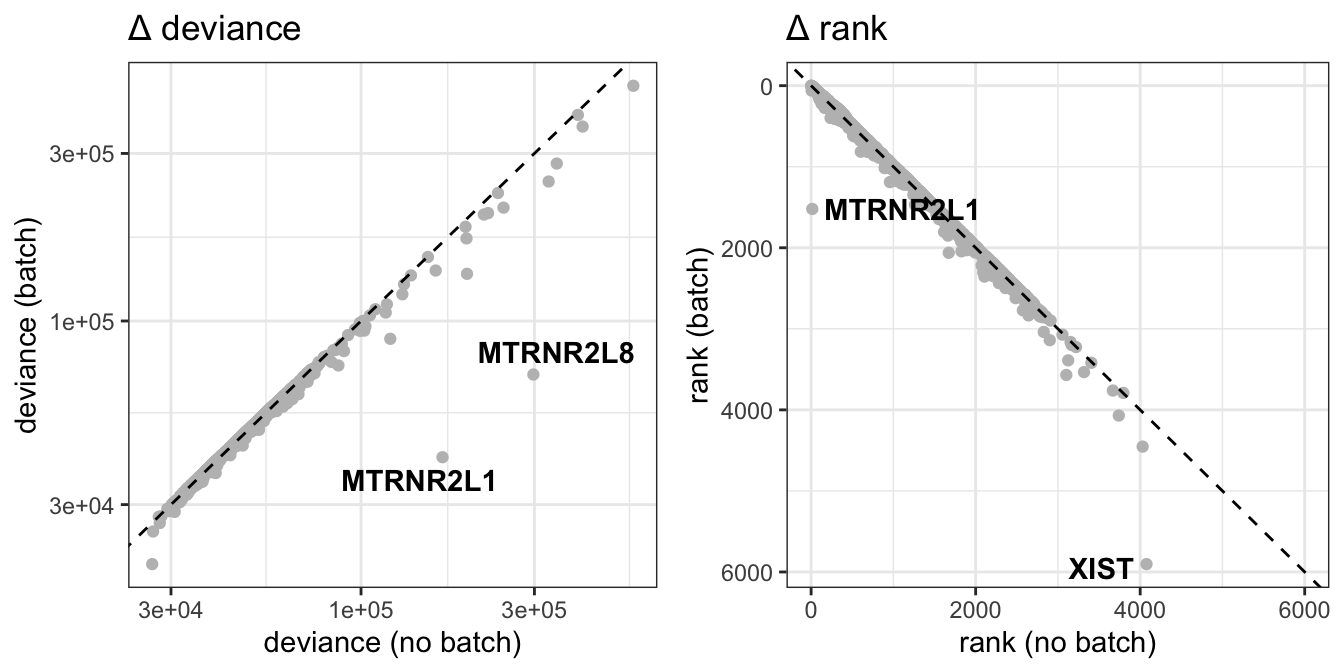
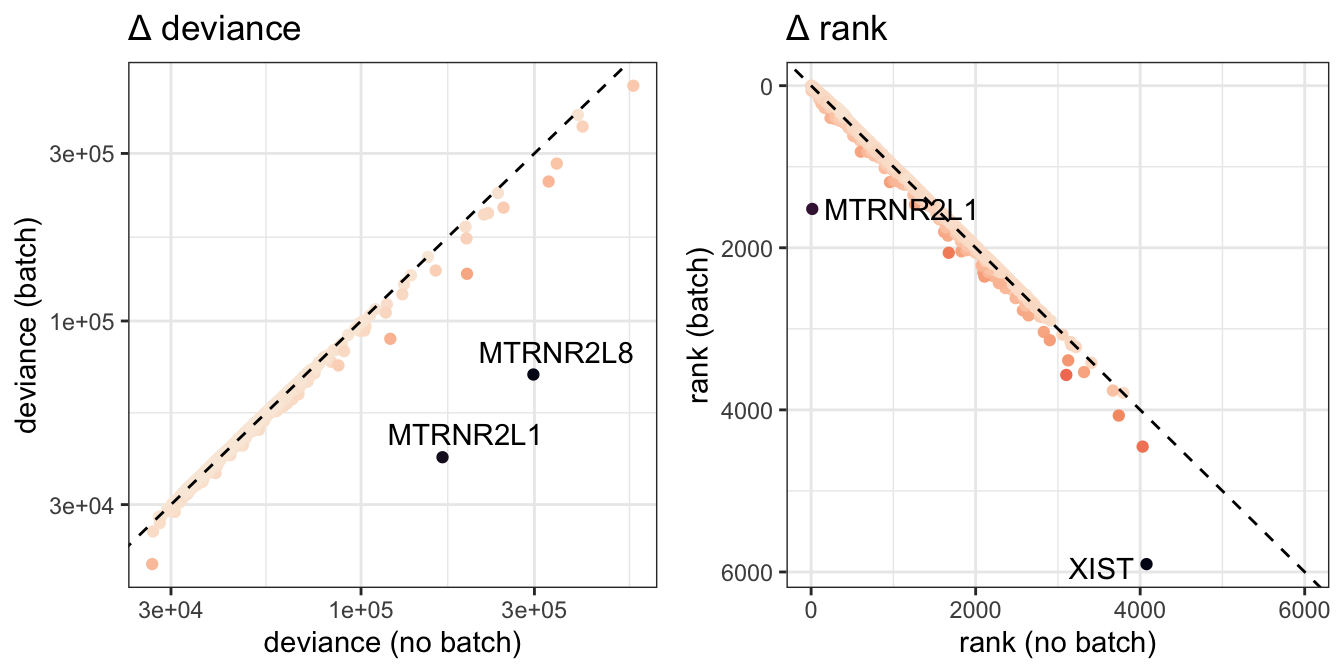
Built site for gh-pages

diff --git a/spatialLIBD.html b/spatialLIBD.html
@@ -180,8 +180,12 @@ pre > code.sourceCode > span > a:first-child::before { text-decoration: underlin
   <li><a href="#how-do-svgs-rank-in-each-model" id="toc-how-do-svgs-rank-in-each-model" class="nav-link" data-scroll-target="#how-do-svgs-rank-in-each-model"><span class="header-section-number">2.2.1</span> How do SVGs rank in each model?</a></li>
   <li><a href="#are-top-ranked-genes-representative-of-layer-specific-differences-in-gene-expression" id="toc-are-top-ranked-genes-representative-of-layer-specific-differences-in-gene-expression" class="nav-link" data-scroll-target="#are-top-ranked-genes-representative-of-layer-specific-differences-in-gene-expression"><span class="header-section-number">2.2.2</span> Are top ranked genes representative of layer-specific differences in gene expression?</a></li>
   </ul></li>
-  <li><a href="#influence-of-batch-in-binomial-deviance-model-output" id="toc-influence-of-batch-in-binomial-deviance-model-output" class="nav-link" data-scroll-target="#influence-of-batch-in-binomial-deviance-model-output"><span class="header-section-number">2.3</span> Influence of batch in binomial deviance model output</a></li>
-  <li><a href="#confirm-with-spatial-expression-plots" id="toc-confirm-with-spatial-expression-plots" class="nav-link" data-scroll-target="#confirm-with-spatial-expression-plots"><span class="header-section-number">2.4</span> Confirm with spatial expression plots</a></li>
+  <li><a href="#influence-of-batch-in-binomial-deviance-model-output" id="toc-influence-of-batch-in-binomial-deviance-model-output" class="nav-link" data-scroll-target="#influence-of-batch-in-binomial-deviance-model-output"><span class="header-section-number">2.3</span> Influence of batch in binomial deviance model output</a>
+  <ul class="collapse">
+  <li><a href="#highly-deviant-genes" id="toc-highly-deviant-genes" class="nav-link" data-scroll-target="#highly-deviant-genes"><span class="header-section-number">2.3.1</span> Highly deviant genes</a></li>
+  <li><a href="#spatially-variable-genes" id="toc-spatially-variable-genes" class="nav-link" data-scroll-target="#spatially-variable-genes"><span class="header-section-number">2.3.2</span> Spatially variable genes</a></li>
+  </ul></li>
+  <li><a href="#spatial-expression-plots-confirm-bias" id="toc-spatial-expression-plots-confirm-bias" class="nav-link" data-scroll-target="#spatial-expression-plots-confirm-bias"><span class="header-section-number">2.4</span> Spatial expression plots confirm bias</a></li>
   </ul>
 </nav>
     </div>
@@ -211,11 +215,12 @@ pre > code.sourceCode > span > a:first-child::before { text-decoration: underlin
 <h2 data-number="2.1" class="anchored" data-anchor-id="intro"><span class="header-section-number">2.1</span> Intro</h2>
 <p>We chose to develop our method on an unrelated DLPFC dataset available through the <a href="https://bmcgenomics.biomedcentral.com/articles/10.1186/s12864-022-08601-w">spatialLIBD</a> package. This way we can explore how to identify batch-biased features while being blinded to how the approach will impact our dataset.</p>
 <p>First, we chose a feature selection method that can incorporate a batch variable into the model. Next, we compared the per-gene ranks and dispersion values when the model was run with and without a batch effect. Finally, we confirmed that the genes identified as biased did exhibit expression patterns consistent with non-biological technical noise.</p>
-<section id="spatiallibd-example-dataset" class="level4" data-number="2.1.0.1">
-<h4 data-number="2.1.0.1" class="anchored" data-anchor-id="spatiallibd-example-dataset"><span class="header-section-number">2.1.0.1</span> spatialLIBD example dataset</h4>
+<section id="spatiallibd-example-dataset" class="level4 unnumbered">
+<h4 class="unnumbered anchored" data-anchor-id="spatiallibd-example-dataset">spatialLIBD example dataset</h4>
 <p>The spatialLIBD dataset was collected from the same brain region as our data (DLPFC) and was also sequenced with 10X Visium. This dataset has 3 subjects and 4 samples from each subject. Because there was no slide metadata available, we investigated whether <code>batch = subject</code> influenced the top features.</p>
 <div class="cell">
-<div class="sourceCode cell-code" id="cb1"><pre class="sourceCode r code-with-copy"><code class="sourceCode r"><span id="cb1-1"><a href="#cb1-1" aria-hidden="true" tabindex="-1"></a>spe <span class="ot">&lt;-</span> <span class="fu">fetch_data</span>(<span class="at">type =</span> <span class="st">"spe"</span>)</span></code><button title="Copy to Clipboard" class="code-copy-button"><i class="bi"></i></button></pre></div>
+<div class="sourceCode cell-code" id="cb1"><pre class="sourceCode r code-with-copy"><code class="sourceCode r"><span id="cb1-1"><a href="#cb1-1" aria-hidden="true" tabindex="-1"></a><span class="fu">library</span>(spatialLIBD)</span>
+<span id="cb1-2"><a href="#cb1-2" aria-hidden="true" tabindex="-1"></a>spe <span class="ot">&lt;-</span> <span class="fu">fetch_data</span>(<span class="at">type =</span> <span class="st">"spe"</span>)</span></code><button title="Copy to Clipboard" class="code-copy-button"><i class="bi"></i></button></pre></div>
 </div>
 <div class="cell">
 <div class="cell-output cell-output-stdout">
@@ -239,9 +244,9 @@ sample_id Br5292 Br5595 Br8100
 </section>
 <section id="feature-selection-comparison" class="level2" data-number="2.2">
 <h2 data-number="2.2" class="anchored" data-anchor-id="feature-selection-comparison"><span class="header-section-number">2.2</span> Feature selection comparison</h2>
-<p>We examined two different models of feature selection. The first model is from <a href="https://www.nature.com/articles/nmeth.2645">scran</a> and utilizes per-gene variance to identify top features. This method, here referred to as the <strong>mean-variance model</strong>, is performed after normalization on the logcount matrix. We opted to use the <code>modelGeneVarByPoisson</code> function which assumes that the mean-variance relationship trend due to technical noise follow a poisson distribution.</p>
+<p>We examined two different models of feature selection. The first model is from <a href="https://www.nature.com/articles/nmeth.2645">scran</a> and utilizes per-gene variance to identify top features. This method, here referred to as the <strong>mean-variance model</strong>, is performed after normalization of the counts matrix. We opted to use the <code>modelGeneVarByPoisson</code> function which assumes that the mean-variance relationship trend due to technical noise follow a poisson distribution.</p>
 <div class="cell">
-<div class="sourceCode cell-code" id="cb3"><pre class="sourceCode r code-with-copy"><code class="sourceCode r"><span id="cb3-1"><a href="#cb3-1" aria-hidden="true" tabindex="-1"></a>decp <span class="ot">&lt;-</span> <span class="fu">modelGeneVarByPoisson</span>(<span class="fu">logcounts</span>(spe))</span></code><button title="Copy to Clipboard" class="code-copy-button"><i class="bi"></i></button></pre></div>
+<div class="sourceCode cell-code" id="cb3"><pre class="sourceCode r code-with-copy"><code class="sourceCode r"><span id="cb3-1"><a href="#cb3-1" aria-hidden="true" tabindex="-1"></a>mv <span class="ot">&lt;-</span> <span class="fu">modelGeneVarByPoisson</span>(<span class="fu">logcounts</span>(spe))</span></code><button title="Copy to Clipboard" class="code-copy-button"><i class="bi"></i></button></pre></div>
 </div>
 <p>The second approach from <a href="https://genomebiology.biomedcentral.com/articles/10.1186/s13059-019-1861-6">scry</a> fits a model to raw counts matrix and assumes that genes with no biologically meaningful expression pattern will fit a binomial distribution. The greater the per-gene deviance from this null model, the more likely the expression of said gene is biologically meaningful as a top feature. We refer to this method as the <strong>binomial deviance model</strong>.</p>
 <div class="cell">
@@ -252,10 +257,11 @@ sample_id Br5292 Br5595 Br8100
 <p>Our goal is to determine whether SVGs exhibit biased expression according of different batch variables. Therefore, the ideal feature selection model would similarly identify SVGs as highly ranked features.</p>
 <p>We ran the <code>nnSVG</code> model on the <code>spatialLIBD</code> data to identify SVGs. We next examined the rank of these features in the mean-variance model and the binomial deviance model.</p>
 <div class="cell">
-<div class="sourceCode cell-code" id="cb5"><pre class="sourceCode r code-with-copy"><code class="sourceCode r"><span id="cb5-1"><a href="#cb5-1" aria-hidden="true" tabindex="-1"></a>libd.svgs <span class="ot">=</span> <span class="fu">read.csv</span>(<span class="st">"processed-data/libd-all_nnSVG_p-05-features-df.csv"</span>, <span class="at">row.names=</span><span class="dv">1</span>)</span></code><button title="Copy to Clipboard" class="code-copy-button"><i class="bi"></i></button></pre></div>
+<div class="sourceCode cell-code" id="cb5"><pre class="sourceCode r code-with-copy"><code class="sourceCode r"><span id="cb5-1"><a href="#cb5-1" aria-hidden="true" tabindex="-1"></a>libd.svgs <span class="ot">=</span> <span class="fu">read.csv</span>(<span class="st">"processed-data/libd-all_nnSVG_p-05-features-df.csv"</span>, </span>
+<span id="cb5-2"><a href="#cb5-2" aria-hidden="true" tabindex="-1"></a>                     <span class="at">row.names=</span><span class="dv">1</span>)</span></code><button title="Copy to Clipboard" class="code-copy-button"><i class="bi"></i></button></pre></div>
 </div>
 <p>We found that the mean-variance model ranked a considerable portion of the SVGs as some of the lowest features in the dataset. In contrast, all the SVGs were ranked highly with the binomial deviance model.</p>
-<p><em>Figure X</em></p>
+<p><em>Figure 1. Bionomial deviance model better corresponds to nnSVG results</em></p>
 <div class="cell">
 <div class="cell-output-display">
 <div>
@@ -270,13 +276,10 @@ sample_id Br5292 Br5595 Br8100
 <h3 data-number="2.2.2" class="anchored" data-anchor-id="are-top-ranked-genes-representative-of-layer-specific-differences-in-gene-expression"><span class="header-section-number">2.2.2</span> Are top ranked genes representative of layer-specific differences in gene expression?</h3>
 <p>A separate but related property of the ideal feature selection model would be to generate a list of top features that are consistent with known DLPFC layer markers and comprise markers of all layer domains. We used the recently published list of DLPFC layer markers from <a href="https://www%3E.science.org/doi/abs/10.1126/science.adh1938">Huuki-Meyers et. al, 2024</a> Table S8 to characterize the top 3000 features of the mean-variance and binomial deviance models.</p>
 <div class="cell">
-<div class="sourceCode cell-code" id="cb6"><pre class="sourceCode r code-with-copy"><code class="sourceCode r"><span id="cb6-1"><a href="#cb6-1" aria-hidden="true" tabindex="-1"></a>lm.df <span class="ot">=</span> <span class="fu">read.csv</span>(<span class="st">"processed-data/EXT_TableS8_sig_genes_FDR5perc_enrichment.csv"</span>)</span>
-<span id="cb6-2"><a href="#cb6-2" aria-hidden="true" tabindex="-1"></a>lm.df <span class="ot">=</span> <span class="fu">filter</span>(lm.df, spatial_domain_resolution<span class="sc">==</span><span class="st">"Sp09"</span>, fdr<span class="sc">&lt;</span>.<span class="dv">05</span>, stat<span class="sc">&gt;</span><span class="dv">0</span>) <span class="sc">%&gt;%</span></span>
-<span id="cb6-3"><a href="#cb6-3" aria-hidden="true" tabindex="-1"></a>  <span class="fu">mutate</span>(<span class="at">domain_simple=</span><span class="fu">factor</span>(test, <span class="at">levels=</span><span class="fu">paste0</span>(<span class="st">"Sp09D0"</span>,<span class="fu">c</span>(<span class="dv">1</span>,<span class="dv">2</span>,<span class="dv">3</span>,<span class="dv">5</span>,<span class="dv">8</span>,<span class="dv">4</span>,<span class="dv">7</span>,<span class="dv">6</span>,<span class="dv">9</span>)),</span>
-<span id="cb6-4"><a href="#cb6-4" aria-hidden="true" tabindex="-1"></a>                              <span class="at">labels=</span><span class="fu">c</span>(<span class="st">"L1"</span>,<span class="st">"L1"</span>,<span class="st">"L2"</span>,<span class="st">"L3"</span>,<span class="st">"L4"</span>,<span class="st">"L5"</span>,<span class="st">"L6"</span>,<span class="st">"WM"</span>,<span class="st">"WM"</span>)))</span></code><button title="Copy to Clipboard" class="code-copy-button"><i class="bi"></i></button></pre></div>
+<div class="sourceCode cell-code" id="cb6"><pre class="sourceCode r code-with-copy"><code class="sourceCode r"><span id="cb6-1"><a href="#cb6-1" aria-hidden="true" tabindex="-1"></a>lm.df <span class="ot">=</span> <span class="fu">read.csv</span>(<span class="st">"processed-data/TableS8_filtered-layer-markers.csv"</span>)</span></code><button title="Copy to Clipboard" class="code-copy-button"><i class="bi"></i></button></pre></div>
 </div>
 <p>These results further supported the selection of the binomial deviance model, as the 3000 most highly ranked features represented significant markers for all DLPFC cortical layers. In contrast, the 3000 most highly ranked features from the mean-variance model were overwhelmingly L1 and white matter (WM) markers.</p>
-<p><em>Figure X</em></p>
+<p><em>Figure 2. Binomial deviance model better corresponds to known DLPFC layer markers</em></p>
 <div class="cell">
 <div class="cell-output-display">
 <div>
@@ -292,10 +295,11 @@ sample_id Br5292 Br5595 Br8100
 <h2 data-number="2.3" class="anchored" data-anchor-id="influence-of-batch-in-binomial-deviance-model-output"><span class="header-section-number">2.3</span> Influence of batch in binomial deviance model output</h2>
 <p>Having picked a feature selection method, next we compared the per-gene ranks and deviance values when the model was run with and without a batch effect. Because the <code>spatialLIBD</code> data has 4 samples per subject, we used <code>batch= subject</code>.</p>
 <div class="cell">
-<div class="sourceCode cell-code" id="cb7"><pre class="sourceCode r code-with-copy"><code class="sourceCode r"><span id="cb7-1"><a href="#cb7-1" aria-hidden="true" tabindex="-1"></a>bd.batch <span class="ot">&lt;-</span> <span class="fu">devianceFeatureSelection</span>(spe, <span class="at">fam=</span><span class="st">"binomial"</span>, <span class="at">batch=</span><span class="fu">as.factor</span>(spe<span class="sc">$</span>subject))</span></code><button title="Copy to Clipboard" class="code-copy-button"><i class="bi"></i></button></pre></div>
+<div class="sourceCode cell-code" id="cb7"><pre class="sourceCode r code-with-copy"><code class="sourceCode r"><span id="cb7-1"><a href="#cb7-1" aria-hidden="true" tabindex="-1"></a>bd.batch <span class="ot">&lt;-</span> <span class="fu">devianceFeatureSelection</span>(spe, <span class="at">fam=</span><span class="st">"binomial"</span>, </span>
+<span id="cb7-2"><a href="#cb7-2" aria-hidden="true" tabindex="-1"></a>                                     <span class="at">batch=</span><span class="fu">as.factor</span>(spe<span class="sc">$</span>subject))</span></code><button title="Copy to Clipboard" class="code-copy-button"><i class="bi"></i></button></pre></div>
 </div>
 <p>At a first glance, including a subject-batch effect doesn’t dramatically change the rank of the SVGs. This finding suggests that <code>scry::devianceFeatureSelection</code> could be a good alternative to <code>nnSVG</code> feature selection if there is considerable technical variation in the experiment/ dataset. It can also be run much faster.</p>
-<p><em>Figure X</em></p>
+<p><em>Figure 3. SVGs are consistently highly ranked in binomial deviance model with and without batch</em></p>
 <div class="cell">
 <div class="cell-output-display">
 <div>
@@ -315,7 +319,9 @@ sample_id Br5292 Br5595 Br8100
 <pre><code>[1] 5903</code></pre>
 </div>
 </div>
-<p>Now we can examine the influence of <code>batch= subject</code> on the per-gene deviance values and ranks. Since we propose that using a binomial deviance model to select top features is a possible alternative to <code>nnSVG</code> feature selection</p>
+<section id="highly-deviant-genes" class="level3" data-number="2.3.1">
+<h3 data-number="2.3.1" class="anchored" data-anchor-id="highly-deviant-genes"><span class="header-section-number">2.3.1</span> Highly deviant genes</h3>
+<p>Now we can examine the influence of <code>batch= subject</code> on the per-gene deviance values and ranks. Since we propose that using a binomial deviance model to select top features is a possible alternative to <code>nnSVG</code> feature selection we will first examine the top features as ranked based on the binomial deviance model.</p>
 <div class="cell">
 <div class="sourceCode cell-code" id="cb12"><pre class="sourceCode r code-with-copy"><code class="sourceCode r"><span id="cb12-1"><a href="#cb12-1" aria-hidden="true" tabindex="-1"></a>subject.df <span class="ot">&lt;-</span> <span class="fu">left_join</span>(bd.df, bd.batch.df,</span>
 <span id="cb12-2"><a href="#cb12-2" aria-hidden="true" tabindex="-1"></a>                       <span class="at">by=</span><span class="fu">c</span>(<span class="st">"gene"</span>, <span class="st">"gene_name"</span>),</span>
@@ -323,13 +329,14 @@ sample_id Br5292 Br5595 Br8100
 </div>
 <p>Recall that the greater the per-gene deviance, the more likely the expression of said gene is biologically meaningful. Therefore, a decrease in deviance when including <code>batch= subject</code> indicates that subject identity accounted for variation in gene expression that was previously considered to be biologically meaningful. Not all magnitudes of change in deviance are noteworthy, so we examined the change in deviance relative to the final deviance value in the batch effect model.</p>
 <div class="cell">
-<div class="sourceCode cell-code" id="cb13"><pre class="sourceCode r code-with-copy"><code class="sourceCode r"><span id="cb13-1"><a href="#cb13-1" aria-hidden="true" tabindex="-1"></a>subject.df<span class="sc">$</span>d.diff <span class="ot">=</span> (subject.df[,<span class="st">"dev_default"</span>]<span class="sc">-</span>subject.df[,<span class="st">"dev_subject"</span>])<span class="sc">/</span>subject.df<span class="sc">$</span>dev_subject</span></code><button title="Copy to Clipboard" class="code-copy-button"><i class="bi"></i></button></pre></div>
+<div class="sourceCode cell-code" id="cb13"><pre class="sourceCode r code-with-copy"><code class="sourceCode r"><span id="cb13-1"><a href="#cb13-1" aria-hidden="true" tabindex="-1"></a>subject.df<span class="sc">$</span>d.diff <span class="ot">=</span> (subject.df[,<span class="st">"dev_default"</span>]<span class="sc">-</span>subject.df[,<span class="st">"dev_subject"</span>])<span class="sc">/</span></span>
+<span id="cb13-2"><a href="#cb13-2" aria-hidden="true" tabindex="-1"></a>  subject.df<span class="sc">$</span>dev_subject</span></code><button title="Copy to Clipboard" class="code-copy-button"><i class="bi"></i></button></pre></div>
 </div>
 <p>Since more lowly ranked features are considered more important, an increase in rank when including<code>batch= subject</code> indicates that the relative importance of the feature is diminished once subject identity is accounted for.</p>
 <div class="cell">
 <div class="sourceCode cell-code" id="cb14"><pre class="sourceCode r code-with-copy"><code class="sourceCode r"><span id="cb14-1"><a href="#cb14-1" aria-hidden="true" tabindex="-1"></a>subject.df<span class="sc">$</span>r.diff <span class="ot">=</span> subject.df[,<span class="st">"rank_subject"</span>]<span class="sc">-</span>subject.df[,<span class="st">"rank_default"</span>]</span></code><button title="Copy to Clipboard" class="code-copy-button"><i class="bi"></i></button></pre></div>
 </div>
-<p><em>Figure X. Influence of batch on deviance and rank</em></p>
+<p><em>Figure 4. Influence of batch on highly deviant genes (n= 3000)</em></p>
 <div class="cell">
 <div class="cell-output-display">
 <div>
@@ -339,24 +346,26 @@ sample_id Br5292 Br5595 Br8100
 </div>
 </div>
 </div>
-<p>We can see that the mitochondrial genome (often removed from feature lists) exhibits no change in rank but several genes show relatively strong change in deviance residuals with <code>batch= subject</code>.</p>
+<p>We can see that the mitochondrial genome (red; often removed from feature lists) exhibits no change in rank but several genes show relatively strong change in deviance residuals with <code>batch= subject</code>. Considering that the mitochondrial genome is often excluded, there are two additional features that may be biased (RPS26, MT3). Examining a dotplot of the scaled expression of these potentially subject-biased genes suggests that it is worth looking further into whether these features are worth including as input to a clustering algorithm.</p>
+<p><em>Figure 5. Mitochondrial genome and potentially subject-biased genes</em></p>
 <div class="cell">
 <div class="cell-output-display">
 <div>
 <figure class="figure">
-<p><img src="spatialLIBD_files/figure-html/view mito-1.png" class="img-fluid figure-img" width="336"></p>
+<p><img src="spatialLIBD_files/figure-html/view mt dotplot-1.png" class="img-fluid figure-img" width="672"></p>
 </figure>
 </div>
 </div>
 </div>
-<p>Moving on now to look at SVGS.</p>
+</section>
+<section id="spatially-variable-genes" class="level3" data-number="2.3.2">
+<h3 data-number="2.3.2" class="anchored" data-anchor-id="spatially-variable-genes"><span class="header-section-number">2.3.2</span> Spatially variable genes</h3>
+<p>Now we will examine whether the change in deviance and the change in rank also highlight SVGs that are potentially subject-biased.</p>
 <div class="cell">
-<div class="sourceCode cell-code" id="cb15"><pre class="sourceCode r code-with-copy"><code class="sourceCode r"><span id="cb15-1"><a href="#cb15-1" aria-hidden="true" tabindex="-1"></a>top.svg.df <span class="ot">=</span> <span class="fu">filter</span>(subject.df, gene <span class="sc">%in%</span> libd.svgs<span class="sc">$</span>gene_id)</span>
-<span id="cb15-2"><a href="#cb15-2" aria-hidden="true" tabindex="-1"></a><span class="co">#subject.df &lt;- mutate(subject.df, is_svg= factor(gene %in% libd.svgs$gene_id,</span></span>
-<span id="cb15-3"><a href="#cb15-3" aria-hidden="true" tabindex="-1"></a><span class="co">#                                                levels=c(TRUE, FALSE),</span></span>
-<span id="cb15-4"><a href="#cb15-4" aria-hidden="true" tabindex="-1"></a><span class="co">#                                                labels=c("SVGs","not SVGs")))</span></span></code><button title="Copy to Clipboard" class="code-copy-button"><i class="bi"></i></button></pre></div>
+<div class="sourceCode cell-code" id="cb15"><pre class="sourceCode r code-with-copy"><code class="sourceCode r"><span id="cb15-1"><a href="#cb15-1" aria-hidden="true" tabindex="-1"></a>top.svg.df <span class="ot">=</span> <span class="fu">filter</span>(subject.df, gene <span class="sc">%in%</span> libd.svgs<span class="sc">$</span>gene_id)</span></code><button title="Copy to Clipboard" class="code-copy-button"><i class="bi"></i></button></pre></div>
 </div>
-<p><em>Figure X. Influence of batch on top genes, SVGs in red</em></p>
+<p>Our approach indicates that the two genes with the strongest potential to exhibit subject-biased expression patterns in a way that confounds biological variation are also SVGs (MTRNR2L1, MTRNR2L8). In addition we identify Xist as subject-biased. Xist is a lncRNA that is robustly expressed in females due to its importance for X inactivation. The identification of Xist as a subject-biased gene indicates that our approach works as intended (picking up features with non-spatially relevant sources of variation).</p>
+<p><em>Figure 6. Influence of batch on SVGs (n= 2098)</em></p>
 <div class="cell">
 <div class="cell-output-display">
 <div>
@@ -366,37 +375,40 @@ sample_id Br5292 Br5595 Br8100
 </div>
 </div>
 </div>
-<p>Our approach suggests that even when batch correction is performed, there can still be some highly ranked genes that exhibit the potential for strong subject-bias. Further, three of these potentially biased features are SVGs.</p>
 </section>
-<section id="confirm-with-spatial-expression-plots" class="level2" data-number="2.4">
-<h2 data-number="2.4" class="anchored" data-anchor-id="confirm-with-spatial-expression-plots"><span class="header-section-number">2.4</span> Confirm with spatial expression plots</h2>
-<p>To confirm a strong influence of subject/ brain donor for these genes we looked at the spatial expression plots.</p>
-<p>Xist is a lncRNA that is robustly expressed in females due to its importance for X inactivation. The identification of Xist as a subject-biased gene indicates that our approach works as intended (picking up features with non-spatially relevant sources of variation). Although sex information is not provided in the spatialLIBD example dataset, we can be confident that</p>
+</section>
+<section id="spatial-expression-plots-confirm-bias" class="level2" data-number="2.4">
+<h2 data-number="2.4" class="anchored" data-anchor-id="spatial-expression-plots-confirm-bias"><span class="header-section-number">2.4</span> Spatial expression plots confirm bias</h2>
+<p>Our approach suggests that even when batch correction is performed, there can still be some highly ranked genes that exhibit the potential for strong subject-bias. Further, three of these potentially biased features are SVGs. To confirm a strong influence of subject/ brain donor for these genes we looked at the spatial expression plots.</p>
+<p>We first examine XIST (spatially variable) and RPS4Y1 (highly deviant), given that both genes are located on sex chromosomes and therefore ought to exhibit strong differences in expression between subjects.</p>
+<p><em>Figure 7. Sex-linked genes exhibit strong subject bias</em></p>
 <div class="cell">
 <div class="cell-output-display">
 <div>
 <figure class="figure">
-<p><img src="spatialLIBD_files/figure-html/Xist spatial plot-1.png" class="img-fluid figure-img" width="672"></p>
+<p><img src="spatialLIBD_files/figure-html/unnamed-chunk-2-1.png" class="img-fluid figure-img" width="1344"></p>
 </figure>
 </div>
 </div>
 </div>
-<p>The other two genes, MTRNR2L1 and MTRNR2L8, are also lncRNAs with an unknown biological function. These two features exhibit strong subject-biased expression and are also clearly enriched in certain spatial domains.</p>
-<p>These are perfect examples of features that may introduce noise if included in spatial domain clustering.</p>
+<p>The two remaining highly deviant SVGs with potential subject bias, MTRNR2L1 and MTRNR2L8, are lncRNAs with an unknown biological function. These features likewise display strong subject-biased expression and are also clearly enriched in certain spatial domains. MTRNR2L1 and MTRNR2L8 are perfect examples of features that may introduce noise if included in spatial domain clustering.</p>
+<p><em>Figure 8. Successful identification subject-biased, spatially variable genes</em></p>
 <div class="cell">
 <div class="cell-output-display">
 <div>
 <figure class="figure">
-<p><img src="spatialLIBD_files/figure-html/mtrnr2l1 spatial plot-1.png" class="img-fluid figure-img" width="672"></p>
+<p><img src="spatialLIBD_files/figure-html/view mtrnr plot-1.png" class="img-fluid figure-img" width="1344"></p>
 </figure>
 </div>
 </div>
 </div>
+<p>Lastly, RPS26 and MT3 do not display such strong subject-specific expression. This indicates that our original thresholds chosen without consideration of the location of features from the mitochondrial genome was most appropriate.</p>
+<p><em>Figure 9. RPS26 and MT3 should not be excluded due to bias</em></p>
 <div class="cell">
 <div class="cell-output-display">
 <div>
 <figure class="figure">
-<p><img src="spatialLIBD_files/figure-html/mtrnr2l8 spatial plot-1.png" class="img-fluid figure-img" width="672"></p>
+<p><img src="spatialLIBD_files/figure-html/view additional plots-1.png" class="img-fluid figure-img" width="1344"></p>
 </figure>
 </div>
 </div>
